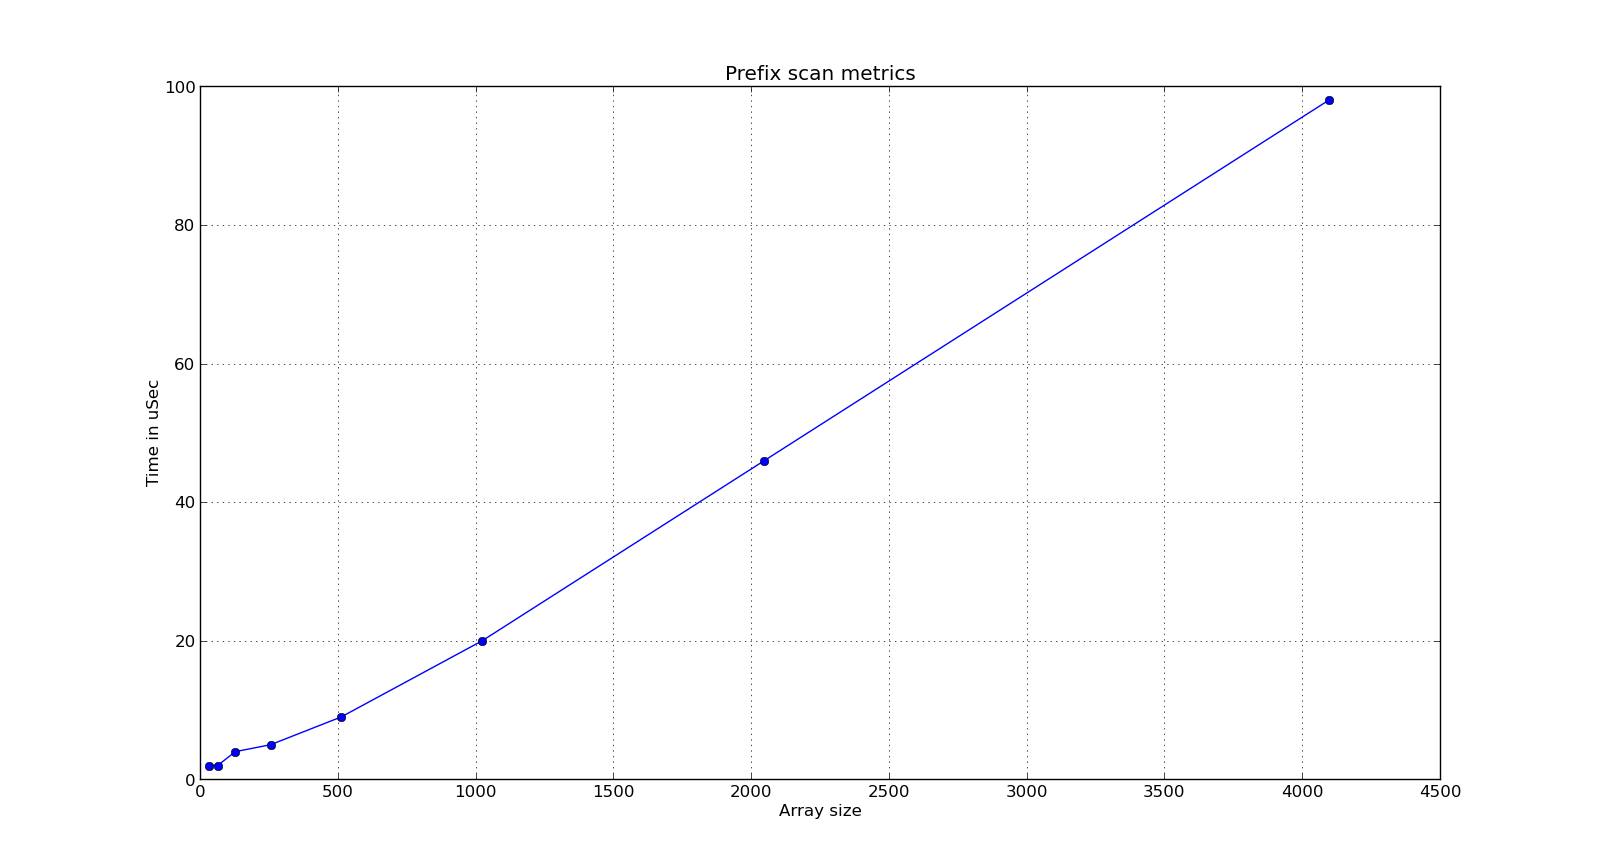
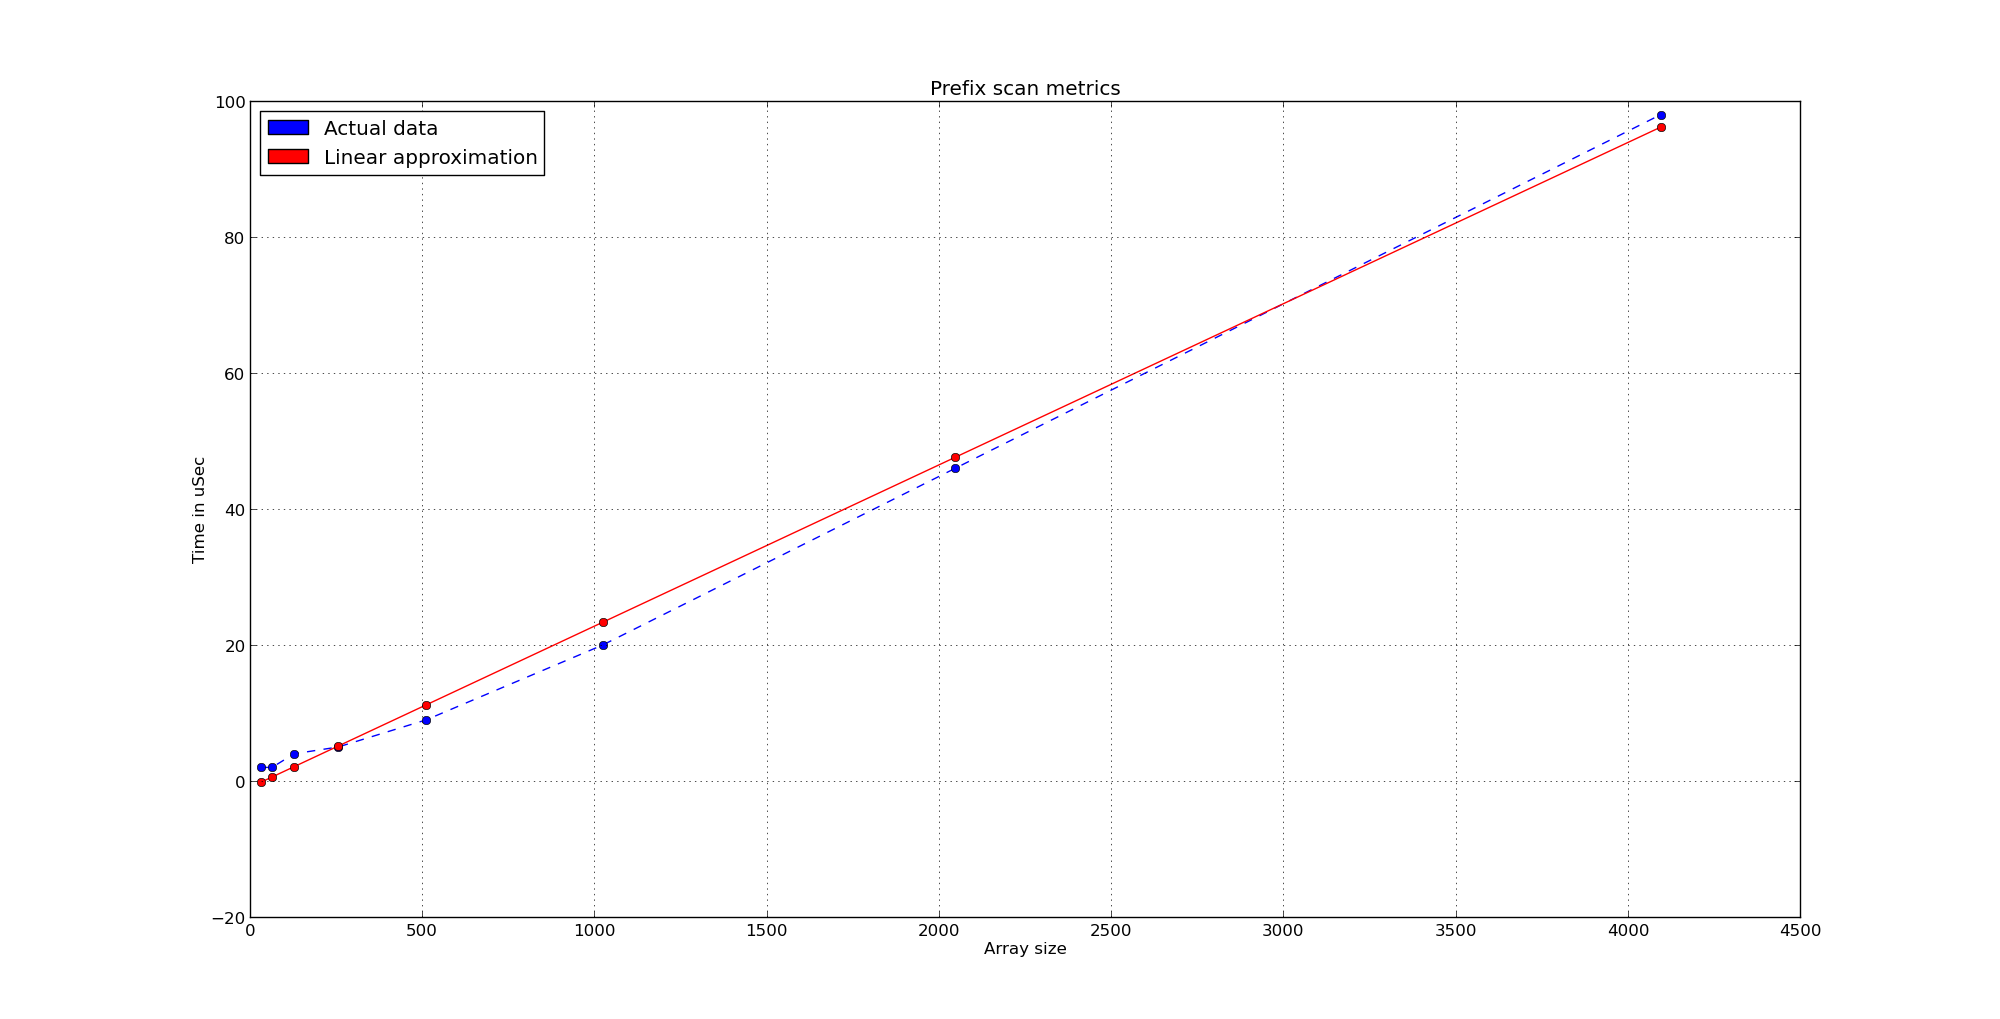
Final commit

diff --git a/hw2/sorttext.c b/hw2/sorttext.c
@@ -1,0 +1,110 @@
+#include <stdio.h>
+#include <stdlib.h>
+#include <sys/types.h>
+#include <sys/time.h>
+#include <sys/stat.h>
+#include <fcntl.h>
+#include <errno.h>
+
+// Print usgae
+void usgae (char *exe) {
+fprintf(stderr, "Usage: %s -i inputfile\n", exe);
+exit(1);
+}
+
+// Return index of smallest element
+int find_smallest (long int *array, int size) {
+int index = 0;
+int i;
+for (i = 0; i < size; i++) {
+	if (array[i] < array[index])
+	index = i;	
+}	
+return index;
+}
+
+// For given array, swap elements with provided indices
+void swap_elements (long int *array, int index1, int index2) {
+long int temp;
+temp = array[index1];
+array[index1] = array[index2];
+array[index2] = temp;
+return;
+}
+
+// compare function for qsort
+int compare (const void *a, const void *b) {
+const long *rec1 = a;
+const long *rec2 = b;
+return ((int)(*rec1) - (int)(*rec2));
+}
+
+
+int main (int argc, char *argv[]) {
+// Check for valid input arguments
+if (argc != 3)
+	usgae(argv[0]);
+if (strcmp(argv[1], "-i"))
+	usgae(argv[0]);
+
+// Check for valid input file
+FILE *fp = fopen(argv[2], "r");
+int count=0, i;
+char numString[15];
+if (fp == NULL) {
+	perror("open");
+	exit(1);
+}
+while (fgets(numString, 15, fp) != NULL) 
+	count++;
+
+// Allocate memory for the array to be sorted
+long int *randomArray =  NULL;
+randomArray = (long int *)malloc(sizeof(long int) * count);
+if (randomArray == NULL)
+	fprintf(stderr, "Error: Cannot allocate memory ");
+
+// Copy numbers from file to heap storage
+fseek(fp, 0, SEEK_SET);
+i = 0;
+while (fgets(numString, 15, fp) != NULL) {
+	randomArray[i] = atol(numString);
+	i++;
+}
+
+// Sort the array
+int smallestIndex;
+struct timeval start1, end1;
+gettimeofday(&start1, NULL);
+for (i = 0; i < count; i++) {
+	smallestIndex = find_smallest((randomArray + i), (count - i));
+	swap_elements(randomArray + i, 0, smallestIndex);
+}
+gettimeofday(&end1, NULL);
+long int diff1 = (end1.tv_usec + 1000000 * end1.tv_sec) - (start1.tv_usec + 1000000 * start1.tv_sec);
+
+// Repeat for qsort
+fseek(fp, 0, SEEK_SET);
+
+// Sort the array with qsort
+struct timeval start2, end2;
+gettimeofday(&start2, NULL);
+qsort(randomArray, count, sizeof(long int), compare);
+gettimeofday(&end2, NULL);
+long int diff2 = (end2.tv_usec + 1000000 * end2.tv_sec) - (start2.tv_usec + 1000000 * start2.tv_sec);
+
+
+// Print the required details
+//for (i = 0; i < count; i++) {
+//	printf("%ld\t", randomArray[i]);
+//}
+printf("Number of integers read = %d\n", count);
+printf("Smallest integer = %ld\n", randomArray[0]);
+printf("Largest integer = %ld\n", randomArray[count-1]);
+printf("Time spent in selection sort = %ld uSec\n", diff1);
+printf("Time spent in quick sort = %ld uSec\n", diff2);
+
+// Cleanup
+free(randomArray);
+return (0);
+}

diff --git a/hw2/scantext.c b/hw2/scantext.c
@@ -30,8 +30,6 @@ if (fp == NULL) {
 while (fgets(numString, 15, fp) != NULL) 
 	count++;
 
-printf("count = %d\n", count);
-
 // Allocate memory for the array to be scanned
 int *input =  NULL;
 input = (int *)malloc(sizeof(int) * count);
@@ -62,6 +60,7 @@ gettimeofday(&end, NULL);
 long int diff = (end.tv_usec + 1000000 * end.tv_sec) - (start.tv_usec + 1000000 * start.tv_sec);
 
 // Result
+/*
 printf("Input:");
 for (i=0; i<count; i++)
 	printf(" %d", input[i]);
@@ -70,8 +69,10 @@ printf("Output:");
 for (i=0; i<count; i++)
 	printf(" %d", output[i]); 
 printf("\n");
+*/
 printf("Number of integers = %d\n", count);
-printf("Last entry in scanned array = %d\n", input[count-1]);
+printf("Last entry in input array = %d\n", input[count-1]);
+printf("Last entry in scanned array = %d\n", output[count-1]);
 printf("Scan time = %ld uSec\n", diff);
 
 // Cleanup

diff --git a/hw2/plot3.py b/hw2/plot3.py
@@ -7,10 +7,30 @@ pl.ylabel('Time in uSec')
 pl.title('Sorting metrics')
 
 data1 = np.loadtxt('3ssort.dat')
-plot1 = pl.loglog(data1[:,0], data1[:,1], 'ro-', basex=2,basey=10)
+x1 = data1[:,0]
+y1 = data1[:,1]
+pl.loglog(x1, y1, 'ro-', basex=2,basey=10)
+#coeff1 = np.polyfit(x1, y1, 1)
+#poly1 = np.poly1d(coeff1)
+#ys1 = poly1(x1)
+#print coeff1
+#print poly1
+#print ys1
+#pl.plot(x1, y1, 'ro-')
+#pl.plot(x1, ys1, 'r')
 
 data2 = np.loadtxt('3qsort.dat')
-plot2 = pl.loglog(data2[:,0], data2[:,1], 'go-', basex=2,basey=10)
+x2 = data2[:,0]
+y2 = data2[:,1]
+pl.loglog(x2, y2, 'go-', basex=2,basey=10)
+#coeff2 = np.polyfit(x2, y2, 1)
+#poly2 = np.poly1d(coeff2)
+#ys2 = poly1(x2)
+#print coeff2
+#print poly2
+#print ys2
+#pl.plot(x2, y2, 'go-')
+#pl.plot(x2, ys2, 'g')
 
 p1 = pl.Rectangle((0, 0), 1, 1, fc="red")
 p2 = pl.Rectangle((0, 0), 1, 1, fc="green")

diff --git a/hw2/scanbin.c b/hw2/scanbin.c
@@ -72,6 +72,7 @@ gettimeofday(&end, NULL);
 long int diff = (end.tv_usec + 1000000 * end.tv_sec) - (start.tv_usec + 1000000 * start.tv_sec);
 
 // Result
+/*
 printf("Input:");
 for (i=0; i<count; i++)
 	printf(" %d", input[i].key);
@@ -80,8 +81,10 @@ printf("Output:");
 for (i=0; i<count; i++)
 	printf(" %d", output[i].key); 
 printf("\n");
+*/
 printf("Number of integers = %d\n", count);
-printf("Last entry in scanned array = %d\n", input[count-1].key);
+printf("Last entry in input array = %d\n", input[count-1].key);
+printf("Last entry in scanned array = %d\n", output[count-1].key);
 printf("Scan time = %ld uSec\n", diff);
 
 // Cleanup

diff --git a/hw2/plot4.py b/hw2/plot4.py
@@ -7,7 +7,17 @@ pl.ylabel('Time in uSec')
 pl.title('Prefix scan metrics')
 
 data = np.loadtxt('4scan.dat')
-pl.plot(data[:, 0], data[:, 1], 'bo-')
+x = data[:, 0]
+y = data[:, 1]
+pl.plot(x, y, 'bo--')
+
+coeff = np.polyfit(x, y, 1)
+poly = np.poly1d(coeff)
+y_ = poly(x)
+pl.plot(x, y_, 'ro-')
 
 pl.grid('on')
+p1 = pl.Rectangle((0, 0), 1, 1, fc="blue")
+p2 = pl.Rectangle((0, 0), 1, 1, fc="red")
+pl.legend([p1, p2], ['Actual data', 'Linear approximation'], 'upper left')
 pl.show()
